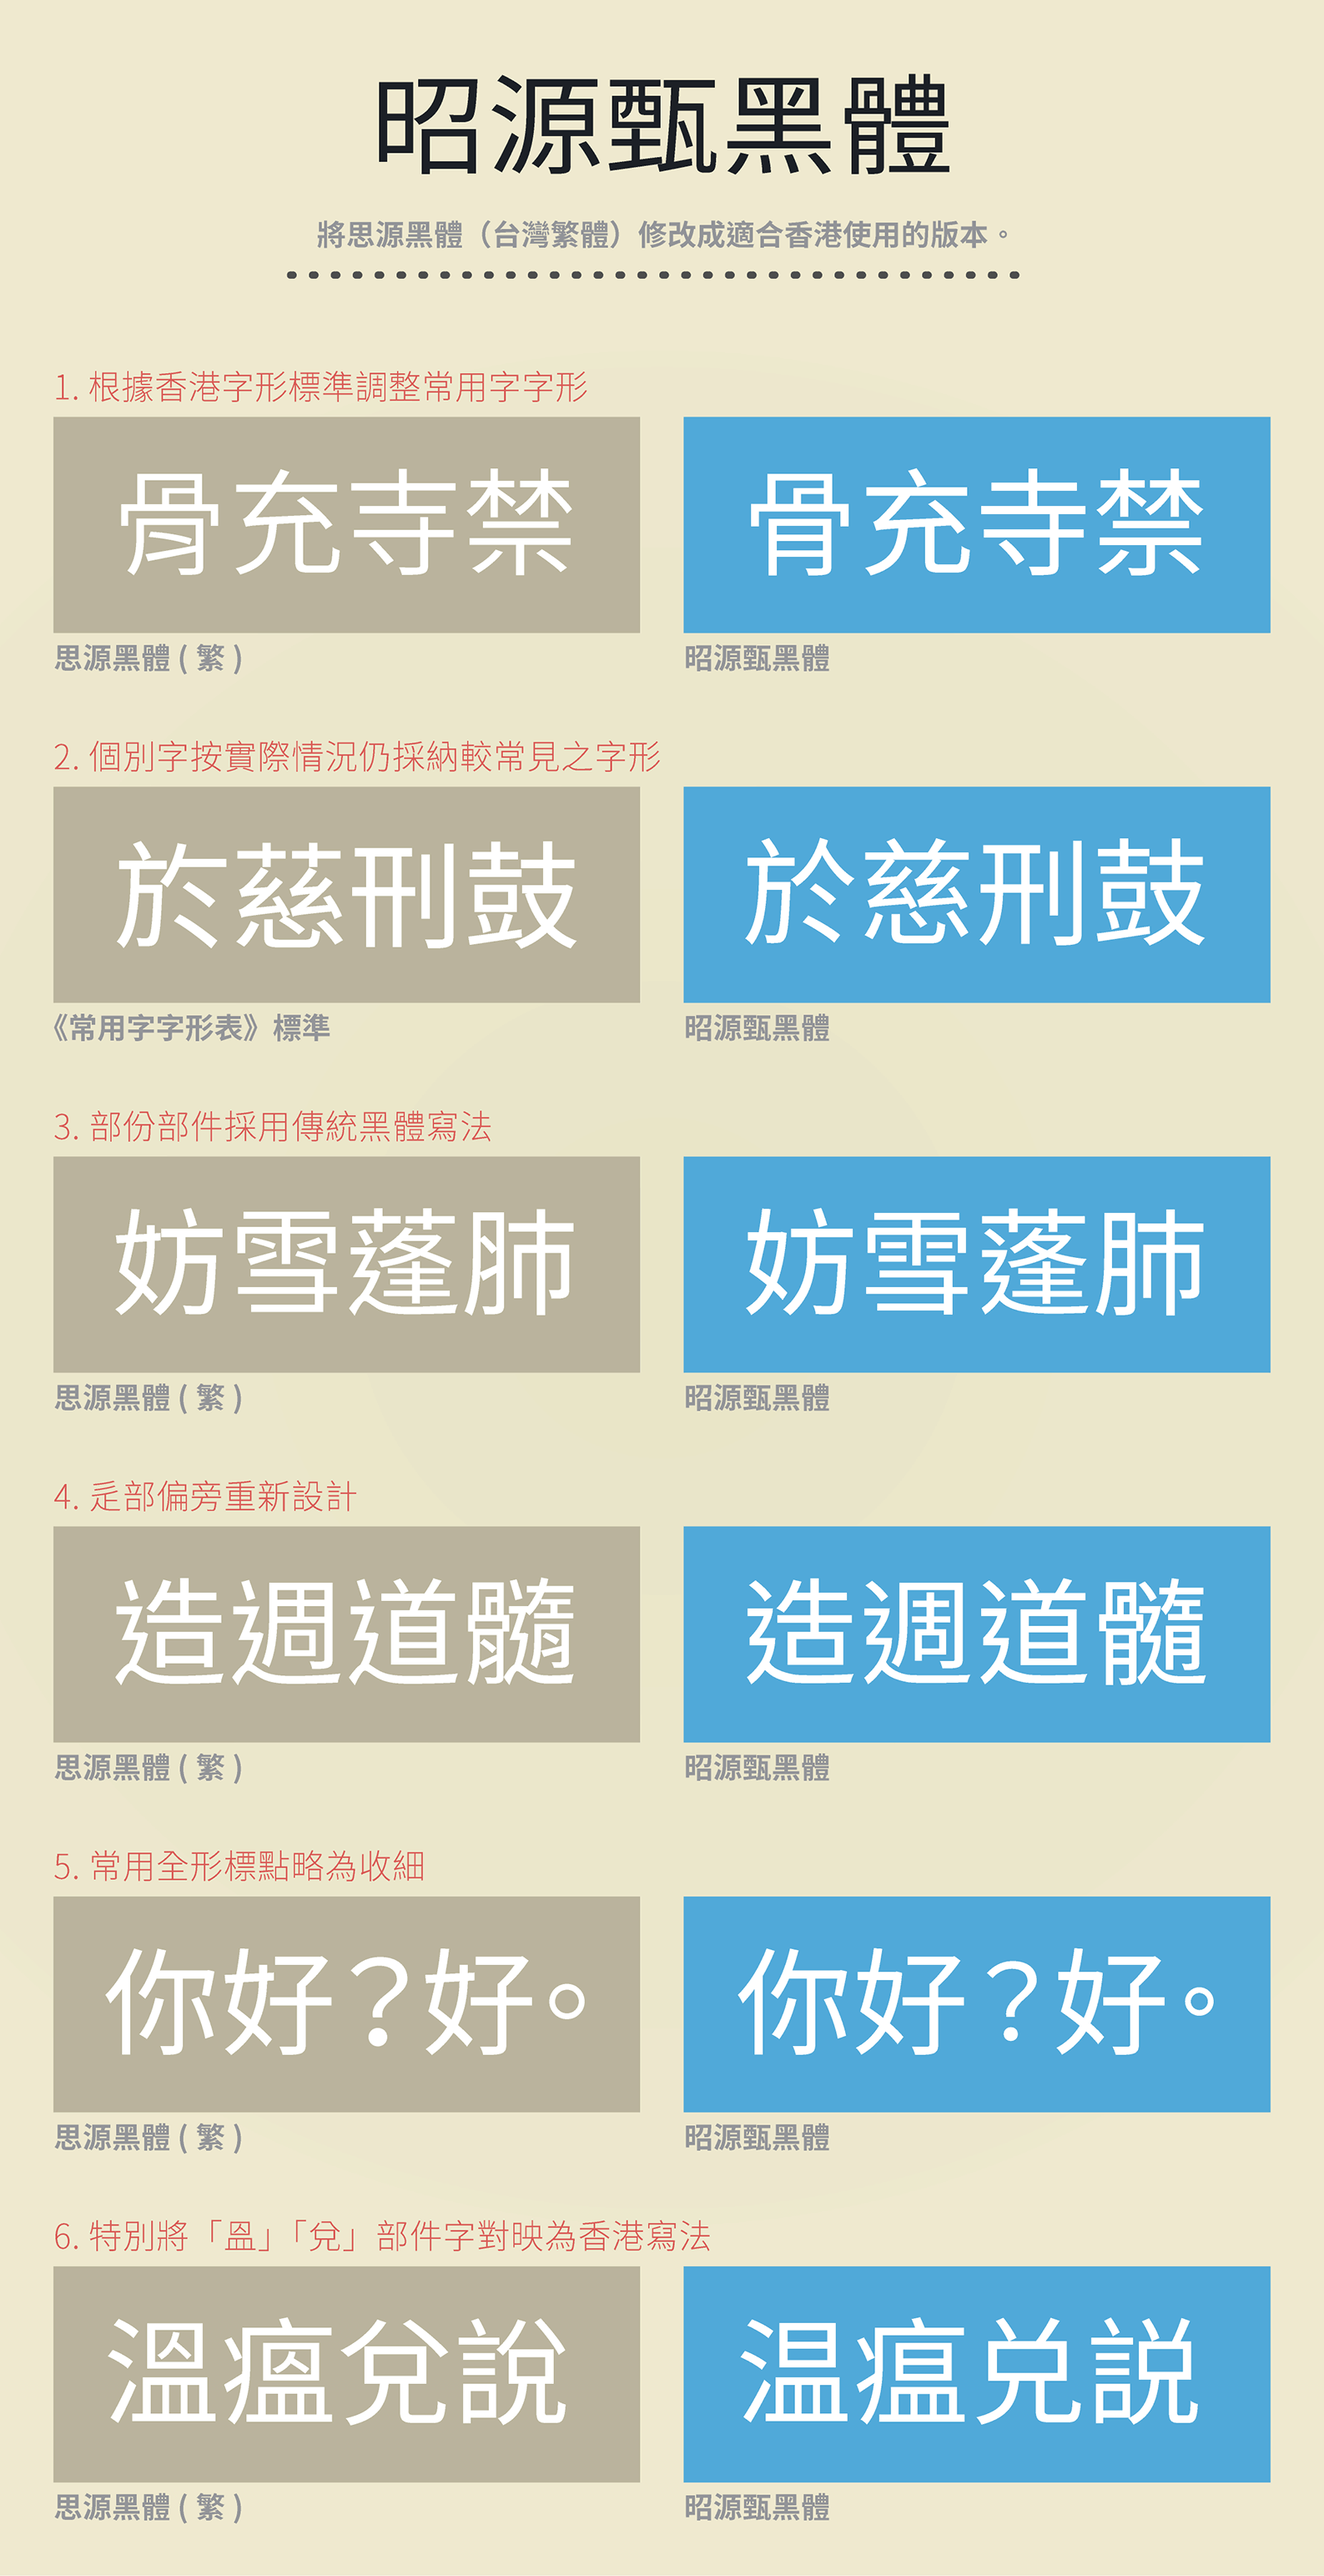
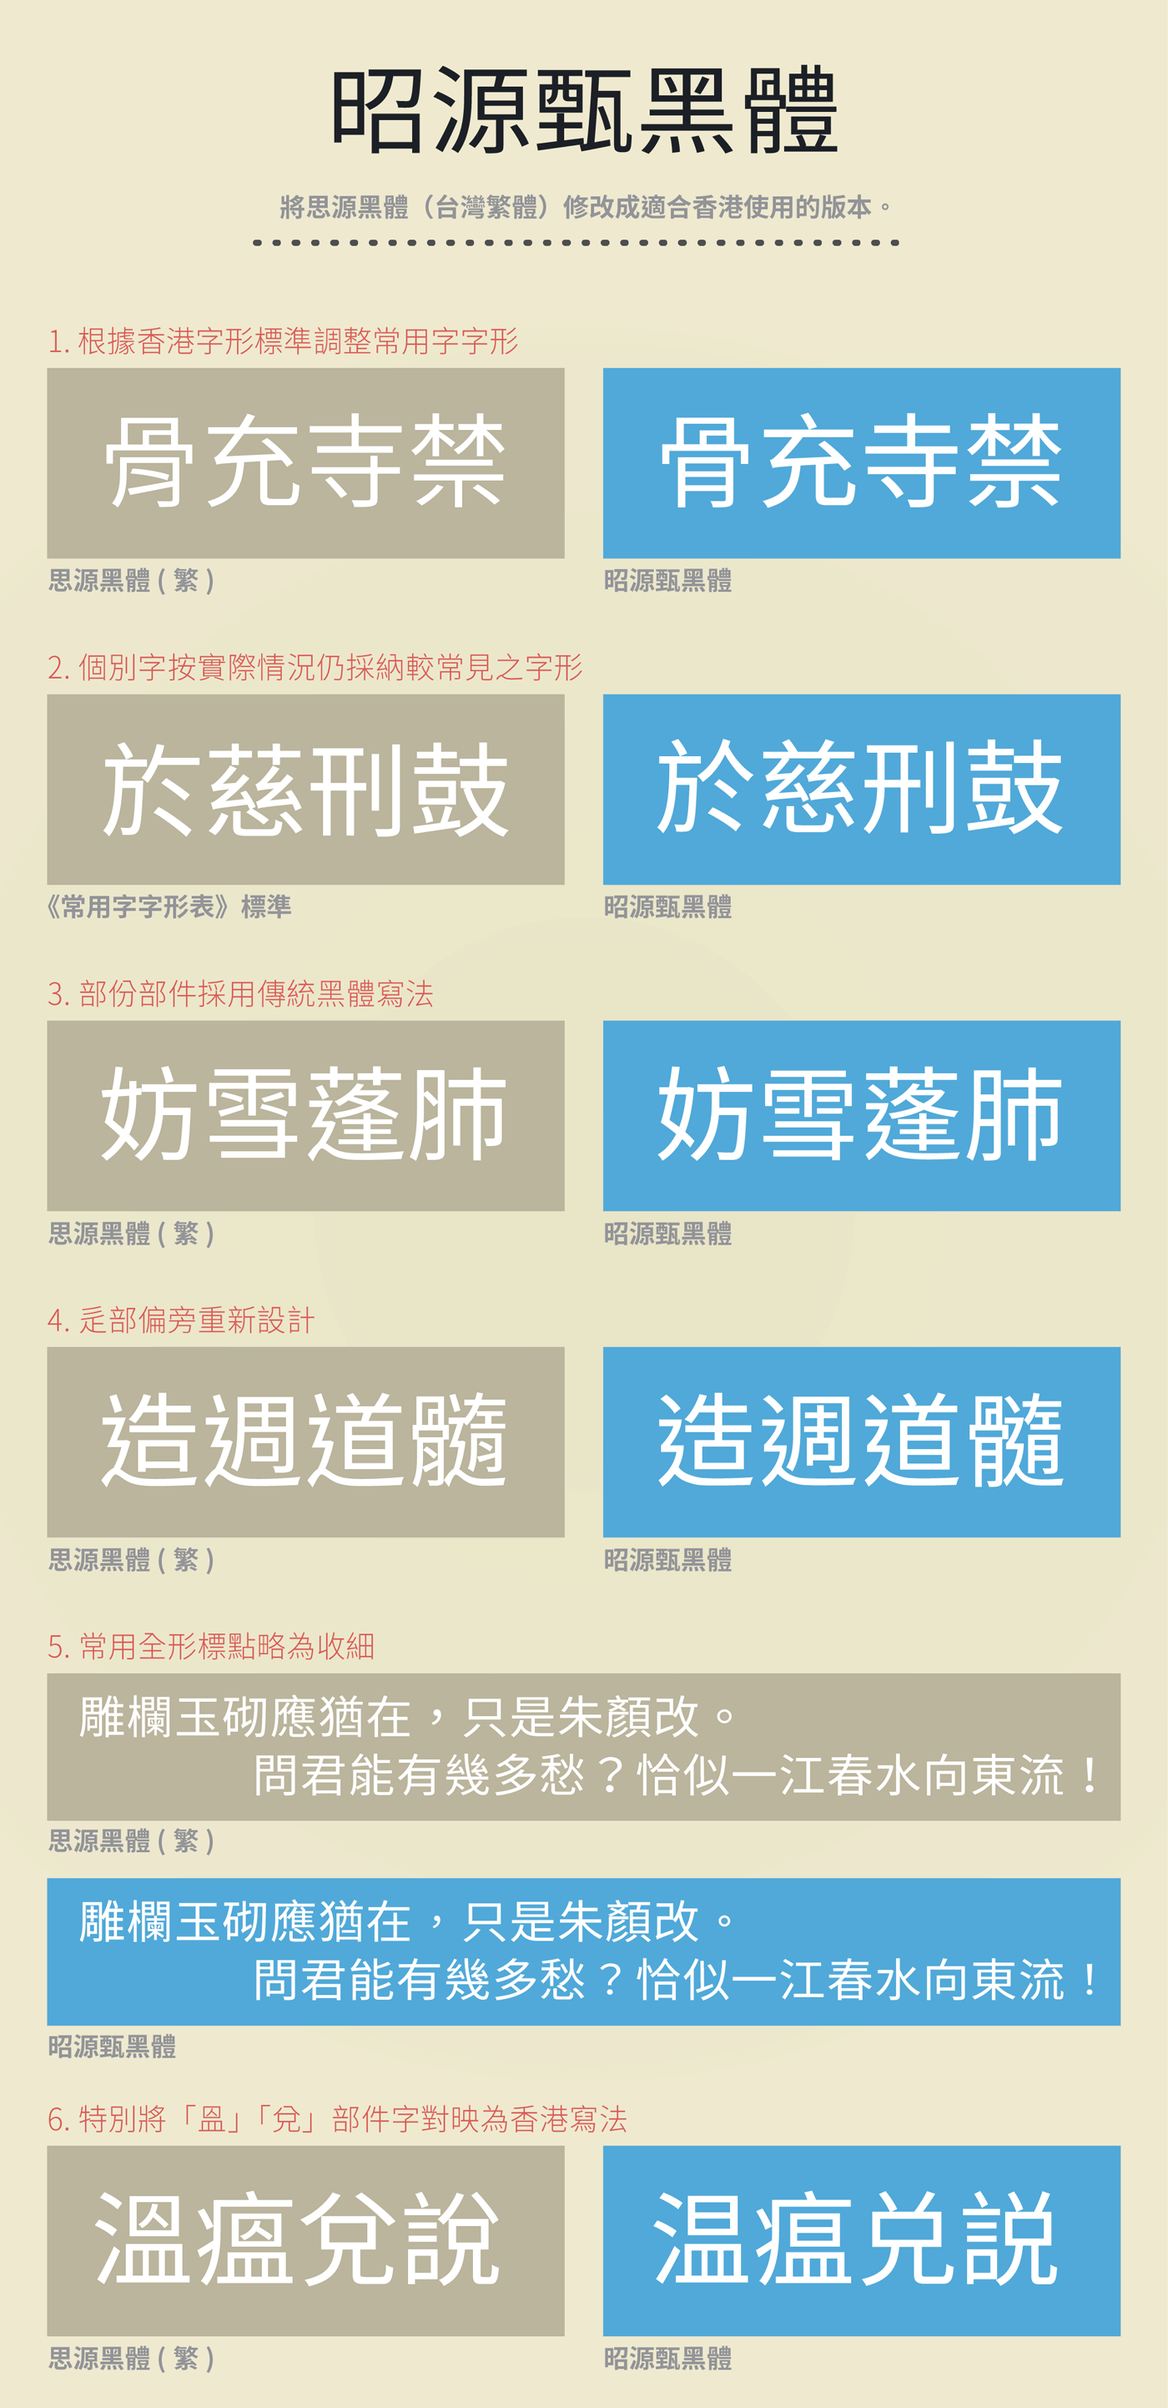
update README and intro image

diff --git a/README.md b/README.md
@@ -10,23 +10,25 @@ CYanHeiHK (昭源甄黑體)
   * [About this repository](#about-this-repository)
   * [Using the command line tools](#using-the-command-line-tools)
   * [Download](#download)
+  * [Important notes](#important-notes)
   * [Disclaimer](#disclaimer)
-    
+
 CYanHeiHK is an OpenType font based on Source Han Sans (SHS) from Adobe and Google (it is called Noto Sans CJK when distributed by Google). A number of glyphs have been modified so that it is more suitable for use in Hong Kong.
 
 ## Background
+
 The following issues are observed in the current Source Han Sans release:
 
-1. In Unicode, a codepoint can be represented by usually slightly different glyphs due to [Han Unification](https://en.wikipedia.org/wiki/Han_unification). Currently, Source Han Sans supports four different favours in terms of language dependent glyphs, which are Simplified Chinese (PRC), Traditional Chinese (Taiwan), Japanese and Korean. So far there is no Traditional Chinese version targeting Hong Kong's character standard (usually refers to the *List of Graphemes of Commonly-used Chinese Characters 常用字字形表* by the Hong Kong Education Bureau).
-2. For practical reason, a non-standard glyph is sometimes more preferred than a standard one. The happens when users are already familiar to a glyph long before the standard was born, but the authority picked a somewhat unfamiliar shape as the standard.
+1. In Unicode, a codepoint can be represented by usually slightly different glyphs in different regions due to [Han Unification](https://en.wikipedia.org/wiki/Han_unification). Currently, Source Han Sans supports four different favours in terms of language dependent glyphs, which are Simplified Chinese (PRC), Traditional Chinese (Taiwan), Japanese and Korean. So far there is no Traditional Chinese version targeting Hong Kong's character standard (usually refers to the *List of Graphemes of Commonly-used Chinese Characters 常用字字形表* by the Hong Kong Education Bureau).
+2. For practical reason, a non-standard glyph is sometimes more preferred. The happens when users are already familiar to a glyph long before the standard was born, but the authority picked a somewhat unfamiliar shape as the standard.
 
-A SHS version targeting Hong Kong is currently planned, which will essentially resolve the first issue. However, the release date of SHS-HK is still yet to be announced, and such a release won't serve all user cases. In particular, while it is good to have a release fully compliant to HK's glyph standard, it may not be always preferred by the HK community given the discrepancy between the “standard” and “conventional” appearance of some characters.
+A SHS version targeting Hong Kong is currently planned, which will essentially resolve the first issue. However, the release date of SHS-HK is still yet to be announced, and such a release won't serve all use cases. In particular, while it is good to have a release adhering Hong Kong's glyph standard, such a release may not be always preferred by the community given the discrepancy between the “standard” and “conventional” appearance of some characters.
 
 ## Differences to the original product
 
 The current release of the font is based on the TW variant of Source Han Sans (version 1.004). 
 
-The following image is an introduction to the font in Chinese, which demonstrates some differences to its base:
+The following image serves as an introduction to the font in Chinese, which demonstrates some differences to its base:
 
 ![Font intro](doc/images/intro.png?raw=true "About this font, in Chinese")
 
@@ -66,6 +68,11 @@ See [COMMANDS.md](doc/COMMANDS.md) for details.
 ## Download
 
 To download the fonts instead of building one manually, visit the [releases](https://github.com/tamcy/CYanHeiHK/releases) page. The zip file contains fonts of the three weights, and a *changes.html* file which you can open to examine the changed glyphs after installing the fonts. Source Han Sans TW also needs to be present for the reference glyph to display correctly. 
+
+## Important notes
+
+* Due to the special handling of the “兌” component, there will be two codepoints sharing the same glyph when 兌 is the only distinguishing feature. For instance, 說 (U+8AAA) and 説 (U+8AAC) will both appear as 言+兑 (U+8AAC). As a result, this font is not suitable for situation when the user needs to distinguish these two components. The same is applied to the characters with the “𥁕” component.  
+* The original language specific Source Han Sans OTFs contain glyphs of the non-default language, so that users can access them using the same font resource through the ‘locl’ GSUB feature in OpenType. This feature still exists in CYanHeiHK, but should not be used because the HK glyphs are developed by selecting the region specific glyphs closest to the desired form and modify them when necessary.
 
 ## Disclaimer
 
